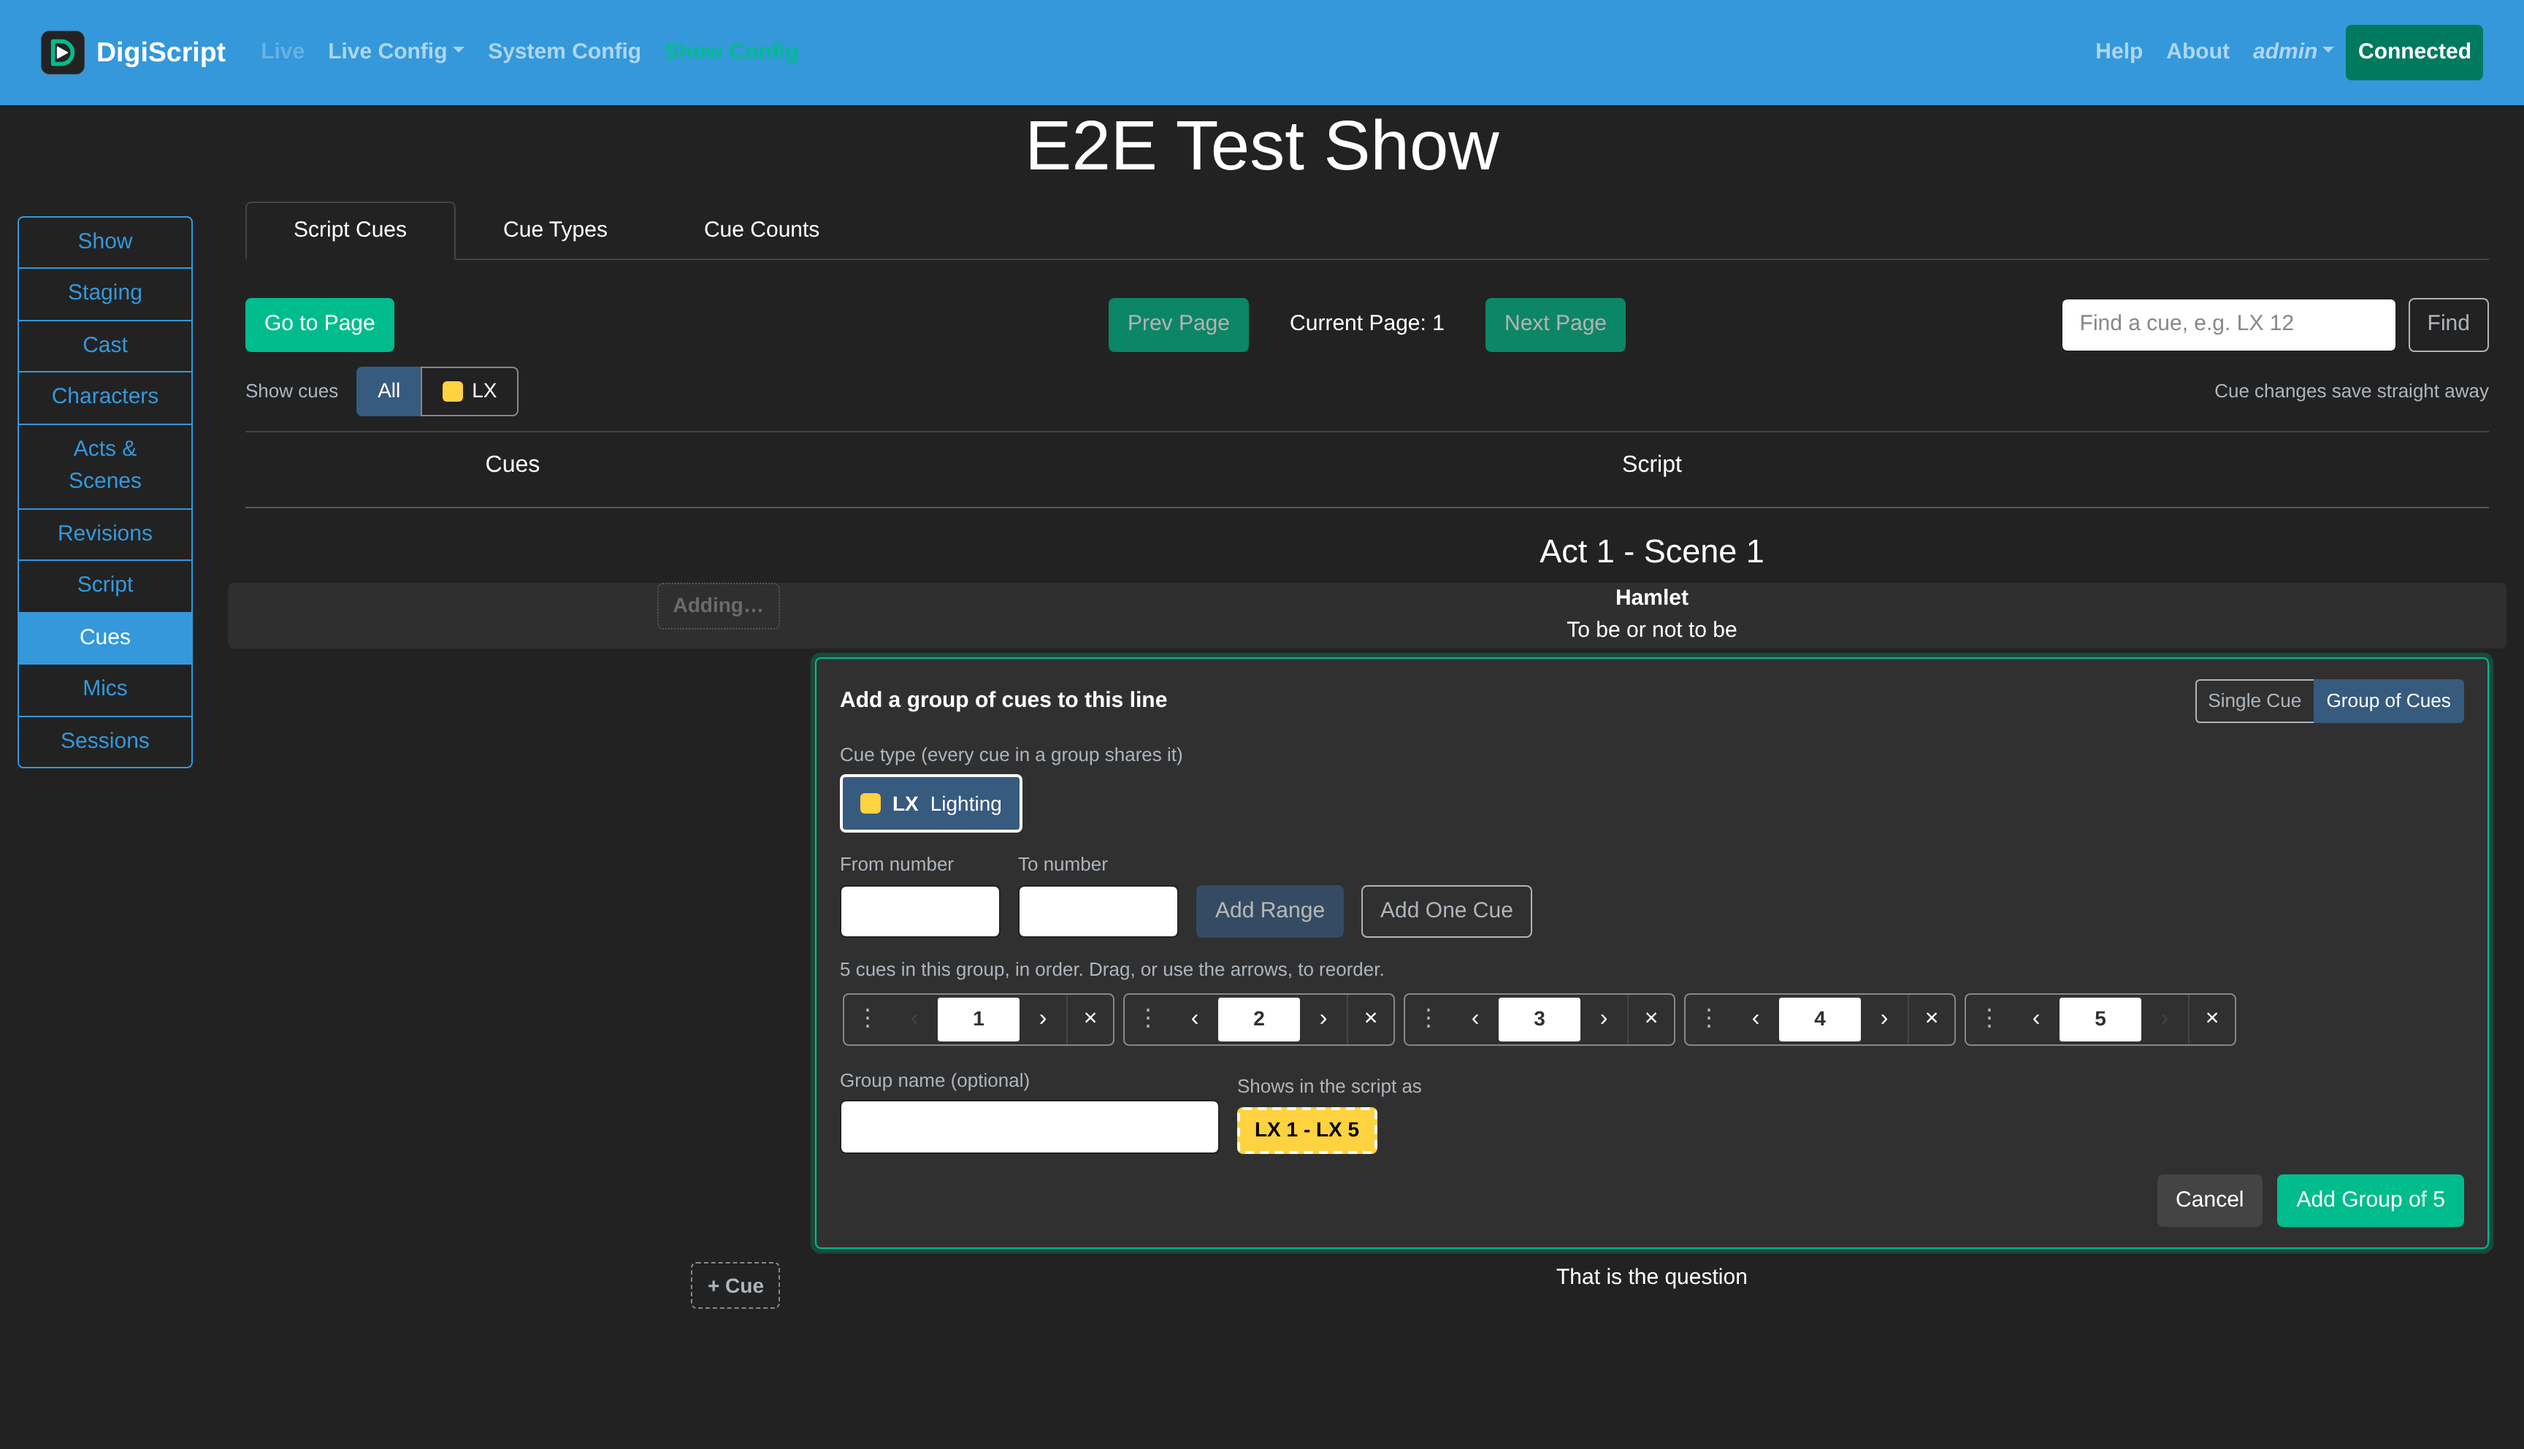
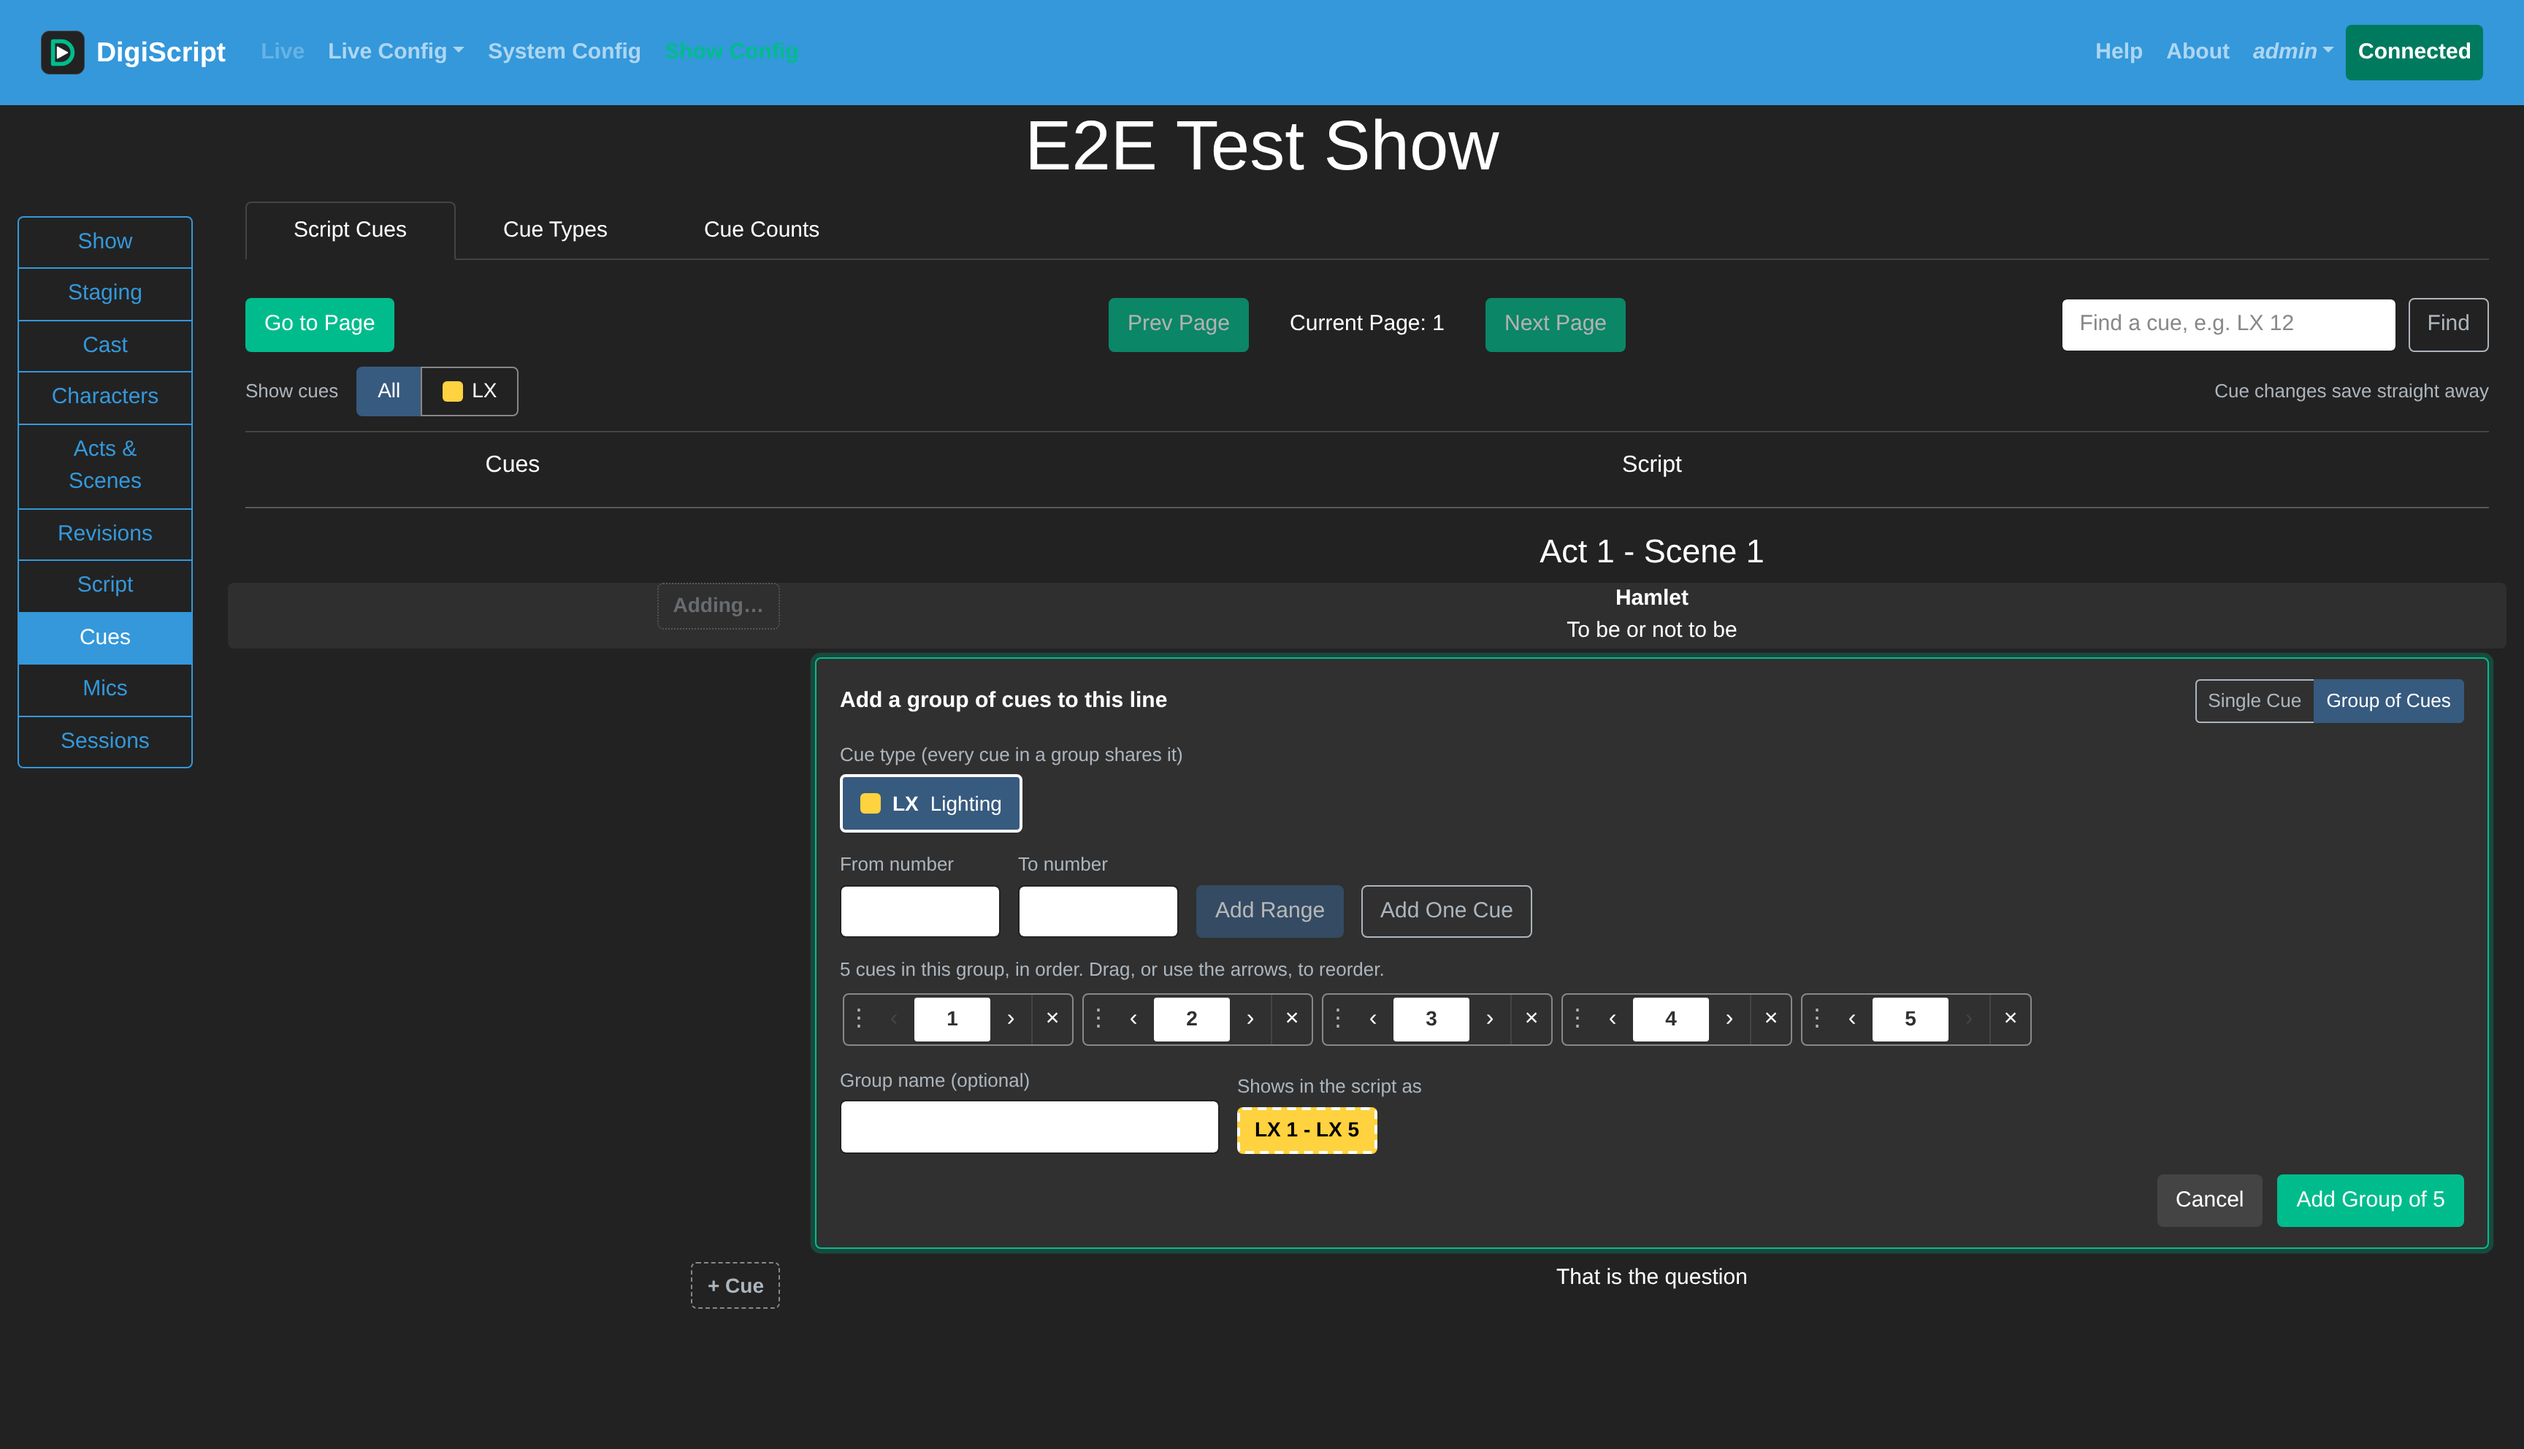
Denser, scrollable group list; empty Script Cues shot shows script content
Tiles are narrower and the list uses more of a tall window (clamp(220px, 35vh, 360px)), so more of a long group is visible at once; the list is a labelled group. The cue_configuration_empty screenshot is now taken in spec 10, where the script has content. Adds unit and E2E coverage for a 100-cue group.

Changed region(s): [[0.4375, 0.6875, 0.7812, 0.7188], [0.8125, 0.6875, 0.875, 0.7188], [0.3438, 0.6875, 0.4062, 0.7188]]

diff --git a/client/e2e/tests/10-show-config-script.spec.ts b/client/e2e/tests/10-show-config-script.spec.ts
@@ -525,6 +525,8 @@ test('navigates to Script Cues with saved script content', async () => {
   await expect(
     page.locator('.viewable-line').filter({ hasText: 'To be or not to be' }).first()
   ).toBeVisible({ timeout: 10_000 });
+  // The script has content but no cues yet.
+  await docShot(page, 'config_show/cue_configuration_empty');
 });
 
 test('"+ Cue" opens a card with the first free number suggested', async () => {
@@ -717,6 +719,35 @@ test('deletes the cue group after confirming', async () => {
     .click();
   await confirmDialog(page);
   await expect(page.locator('.cue-group-btn')).not.toBeVisible({ timeout: 5_000 });
+});
+
+test('a group of 100 cues scrolls inside the card instead of stretching it', async () => {
+  await page.locator('.add-cue-btn').first().click();
+  await addCard().getByRole('button', { name: 'Group of Cues' }).click();
+  await addGroupCard().getByLabel('From number').fill('1');
+  await addGroupCard().getByLabel('To number').fill('100');
+  await addGroupCard().getByRole('button', { name: 'Add Range' }).click();
+  await expect(addGroupCard().locator('.member-tile')).toHaveCount(100);
+
+  const list = addGroupCard().getByRole('group', { name: 'Cues in this group' });
+  const sizes = await list.evaluate((el) => ({
+    scroll: el.scrollHeight,
+    client: el.clientHeight,
+    window: window.innerHeight,
+  }));
+  // Long content scrolls in a box that is a fraction of the window, not the full list height.
+  expect(sizes.scroll).toBeGreaterThan(sizes.client);
+  expect(sizes.client).toBeLessThanOrEqual(sizes.window * 0.5);
+
+  // The last cue is reachable by scrolling, and the group can still be added.
+  await addGroupCard().getByLabel('Cue 100 of 100').scrollIntoViewIfNeeded();
+  await expect(addGroupCard().getByLabel('Cue 100 of 100')).toBeInViewport();
+  await expect(addGroupCard().getByRole('button', { name: 'Add Group of 100' })).toBeEnabled();
+
+  // Leave without adding: the changed group card asks first.
+  await addGroupCard().getByRole('button', { name: 'Cancel' }).click();
+  await confirmDialog(page);
+  await expect(addGroupCard()).not.toBeVisible({ timeout: 5_000 });
 });
 
 // ── Line part removal ──────────────────────────────────────────────────────

diff --git a/client/src/components/show/config/cues/CueGroupCard.vue b/client/src/components/show/config/cues/CueGroupCard.vue
@@ -99,7 +99,7 @@
             : `${members.length} ${members.length === 1 ? 'cue' : 'cues'} in this group, in order. Drag, or use the arrows, to reorder.`
         }}
       </span>
-      <div v-if="members.length" class="member-list">
+      <div v-if="members.length" class="member-list" role="group" aria-label="Cues in this group">
         <span
           v-for="(member, index) in members"
           :key="member.key"
@@ -570,7 +570,9 @@ onMounted(() => {
   display: flex;
   flex-wrap: wrap;
   gap: 6px;
-  max-height: 220px;
+  /* A long group (100 timecode cues, say) scrolls inside this box instead of stretching the
+     card; it uses more of a tall window, but never less than ~5 rows. */
+  max-height: clamp(220px, 35vh, 360px);
   overflow-y: auto;
   padding: 2px;
 }
@@ -588,7 +590,7 @@ onMounted(() => {
 
 .member-tile button,
 .member-handle {
-  min-width: 32px;
+  min-width: 28px;
   min-height: 34px;
   padding: 0;
   border: 0;
@@ -606,7 +608,8 @@ onMounted(() => {
   outline-offset: -2px;
 }
 
-.member-handle {
+.member-tile .member-handle {
+  min-width: 20px;
   display: inline-flex;
   align-items: center;
   justify-content: center;
@@ -619,7 +622,7 @@ onMounted(() => {
 }
 
 .member-input {
-  width: 56px;
+  width: 52px;
   min-height: 30px;
   border: 0;
   border-radius: 2px;

diff --git a/client/src/components/show/config/cues/CueGroupCard.test.ts b/client/src/components/show/config/cues/CueGroupCard.test.ts
@@ -408,11 +408,22 @@ describe('CueGroupCard (edit)', () => {
     expect(button(w as never, 'Delete Group')!.attributes('disabled')).toBeDefined();
   });
 
-  it('lets a long list scroll rather than growing the card', async () => {
+  it('holds a long group (100 cues) in one labelled scrolling list, all still editable', async () => {
     setup();
-    const w = mountEdit();
+    const w = mountAdd();
     await flushPromises();
 
-    expect(w.find('.member-list').exists()).toBe(true);
+    await addRange(w, '1', '100');
+
+    const lists = w.findAll('.member-list');
+    expect(lists).toHaveLength(1);
+    expect(lists[0].attributes('role')).toBe('group');
+    expect(lists[0].attributes('aria-label')).toBe('Cues in this group');
+    expect(w.findAll('.member-tile')).toHaveLength(100);
+    expect(button(w, 'Add Group of 100')).toBeDefined();
+    expect(w.find('.cue-chip-group').text()).toBe('SND 1 - SND 100');
+    // Every cue keeps its own name and arrows, so the whole list is usable by keyboard.
+    expect(w.find('[aria-label="Move cue 100 earlier"]').exists()).toBe(true);
+    expect(w.find('[aria-label="Cue 100 of 100"]').exists()).toBe(true);
   });
 });

diff --git a/client/e2e/tests/08-show-config-cues.spec.ts b/client/e2e/tests/08-show-config-cues.spec.ts
@@ -116,7 +116,6 @@ test('switches to the Script Cues tab', async () => {
   await page.click('.nav-link:has-text("Script Cues")');
   // The editor loads the script view — shows page navigation
   await expect(page.locator('button:has-text("Go to Page")')).toBeVisible({ timeout: 10_000 });
-  await docShot(page, 'config_show/cue_configuration_empty');
 });
 
 test('the toolbar has page navigation, a find box and a cue type filter', async () => {
